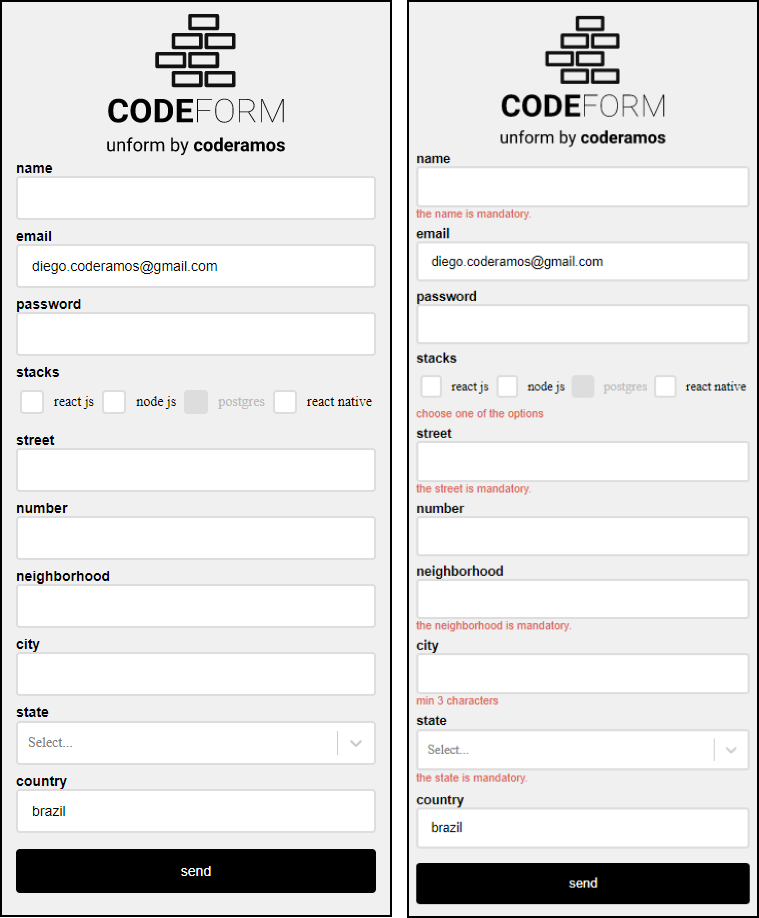
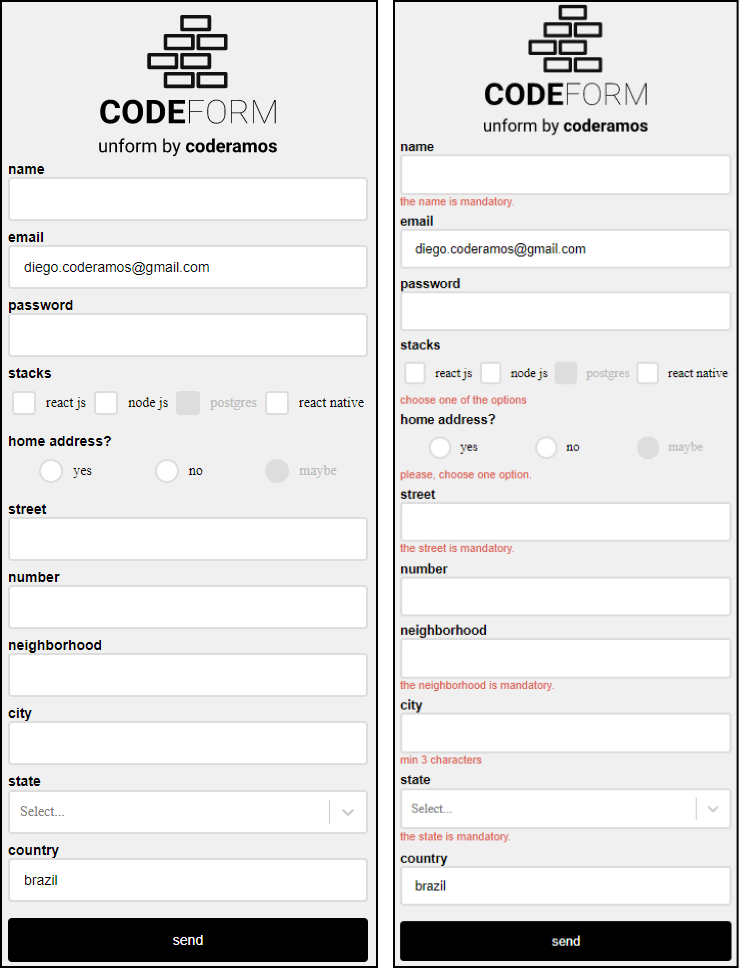
update project layout

diff --git a/src/components/inputRadio/styles.js b/src/components/inputRadio/styles.js
@@ -6,32 +6,70 @@ export const InputContainer = styled.div`
   margin-bottom: 8px;
 `;
 
-export const InputWrapper = styled.input`
-  /* border: 2px solid ${props => props.theme.colors.gray1}; */
-  /* border-radius: 4px; */
-  /* height: 44px; */
-  /* padding: 0 14px; */
-  /* width: 100%; */
+export const InputRadioWrapper = styled.input`
+  opacity: 0;
+  position: absolute;
+
+  & + label {
+    cursor: pointer;
+    padding: 0;
+    position: relative;
+  }
+
+  & + label:before {
+    background: ${props => props.theme.colors.white1};
+    border-radius: 50%;
+    border: 2px solid ${props => props.theme.colors.gray1};
+    content: '';
+    display: inline-block;
+    height: 20px;
+    margin-right: 10px;
+    width: 20px;
+  }
+
+  &:hover + label:before {
+    border: ${props =>
+      props.disabled
+        ? `2px solid ${props.theme.colors.gray1}`
+        : `2px solid ${props.theme.colors.green1}`};
+  }
+
+  &:disabled + label {
+    color: ${props => props.theme.colors.gray2};
+    cursor: auto;
+  }
+
+  &:disabled + label:before {
+    background: ${props => props.theme.colors.gray1};
+    box-shadow: none;
+  }
+
+  &:checked + label:after {
+    background: ${props => props.theme.colors.green1};
+    border-radius: 50%;
+    border: 1px solid ${props => props.theme.colors.green1};
+    content: '';
+    height: 22px;
+    position: absolute;
+    width: 22px;
+  }
 `;
 
 export const InputContent = styled.div`
-  border: 1px solid red;
-
-  display: flex;
-  justify-content: space-around;
-  height: 44px;
   align-items: center;
+  display: flex;
+  height: 44px;
+  justify-content: space-around;
 `;
 
 export const InputRadioContainer = styled.div`
-  border: 1px solid red;
   align-items: center;
   display: flex;
 `;
 
 export const InputRadioLabel = styled.label`
-  /* align-items: center; */
-  /* display: flex; */
+  align-items: center;
+  display: flex;
 `;
 
 export const ErrorContent = styled.span`

diff --git a/src/components/inputRadio/index.js b/src/components/inputRadio/index.js
@@ -3,7 +3,7 @@ import React, { useEffect, useRef } from 'react';
 import { useField } from '@unform/core';
 import {
   InputContainer,
-  InputWrapper,
+  InputRadioWrapper,
   InputContent,
   InputRadioContainer,
   InputRadioLabel,
@@ -40,7 +40,7 @@ function InputRadio({ name, label, options, ...rest }) {
       <InputContent>
         {options.map((option, index) => (
           <InputRadioContainer key={option.value}>
-            <InputWrapper
+            <InputRadioWrapper
               ref={currentRef => {
                 inputRefs.current[index] = currentRef;
               }}

diff --git a/src/components/inputCheckbox/styles.js b/src/components/inputCheckbox/styles.js
@@ -28,7 +28,7 @@ export const InputCheckboxWrapper = styled.input`
   }
 
   & + label:before {
-    background: white;
+    background: ${props => props.theme.colors.white1};
     border-radius: 4px;
     border: 2px solid ${props => props.theme.colors.gray1};
     content: '';
@@ -42,7 +42,7 @@ export const InputCheckboxWrapper = styled.input`
     border: ${props =>
       props.disabled
         ? `2px solid ${props.theme.colors.gray1}`
-        : `1px solid ${props.theme.colors.green1}`};
+        : `2px solid ${props.theme.colors.green1}`};
   }
 
   &:checked + label:before {

diff --git a/src/pages/home/index.js b/src/pages/home/index.js
@@ -39,7 +39,7 @@ export default function Home() {
           .required('the email is mandatory.'),
         stacks: Yup.array()
           .of(Yup.string().required())
-          .required('choose one of the options'),
+          .required('choose one of the options.'),
         address: Yup.object().shape({
           home: Yup.string().required('please, choose one option.'),
           street: Yup.string().required('the street is mandatory.'),
